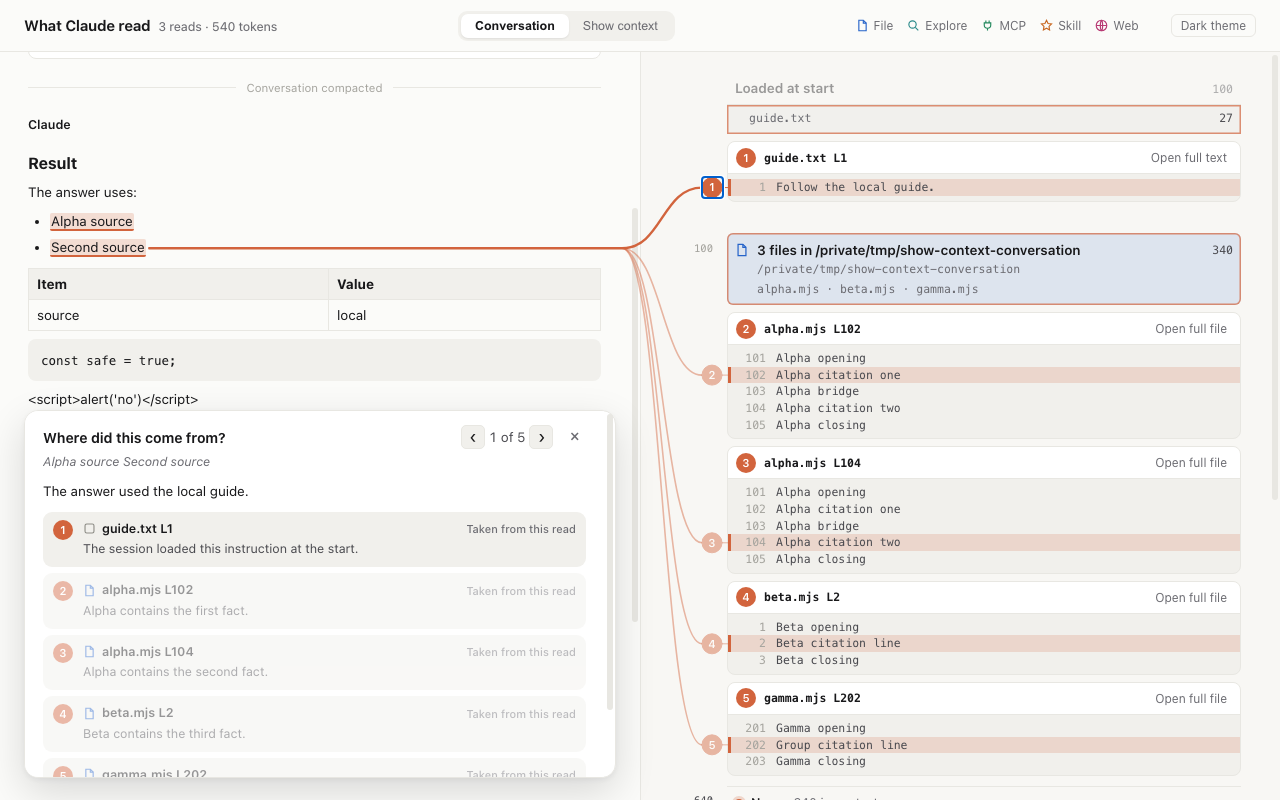
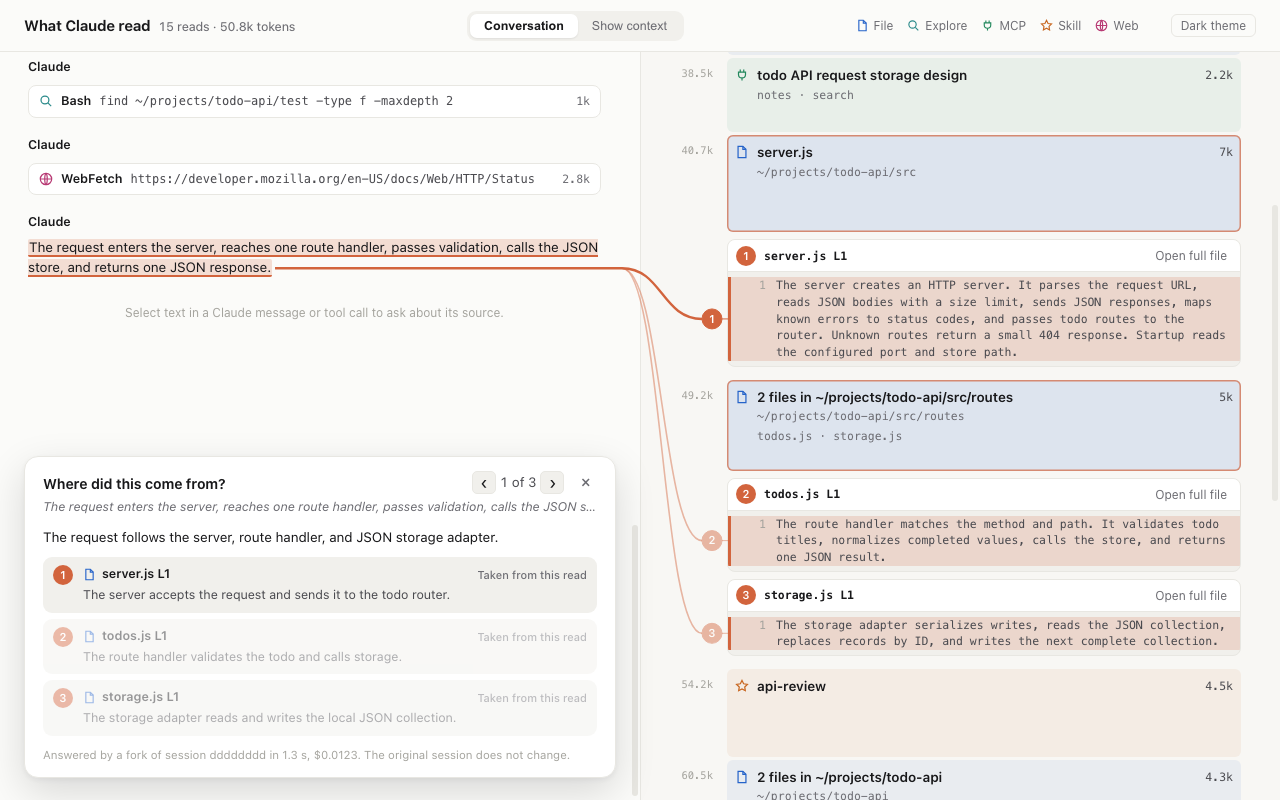
Show "Where did this come from?" as the main README image
- E2E test makes a clean ask screenshot from the fictional demo session
- Old fixture test no longer writes docs/screenshot-ask.png
- README and social preview lead with source tracing

diff --git a/README.md b/README.md
@@ -20,7 +20,9 @@ You can't see any of that from the chat. show-context makes it visible, so you k
 
 ## What you get
 
-**Conversation mode.** The main thread with folded tool calls. Select any sentence Claude wrote and click *Where did this come from?* A split view opens with numbered links to the exact source passages it used. Select text inside a tool call to ask why the call was made.
+**Where did this come from?** Select any sentence Claude wrote and ask. A split view links it, with numbered lines, to the exact passages in the files it read. Select text inside a tool call to ask why the call was made.
+
+![Where did this come from: an answer linked to the exact lines in server.js, todos.js and storage.js](docs/screenshot-ask.png)
 
 **Show context mode.** What loaded at session start (system prompt, tools, CLAUDE.md, skills, MCP), then each read in order. Block height grows with token size, colors mark File, Explore, MCP, Skill and Web reads. A size filter hides the small stuff (under 2,000 tokens by default). Click a row to see its full text.
 
